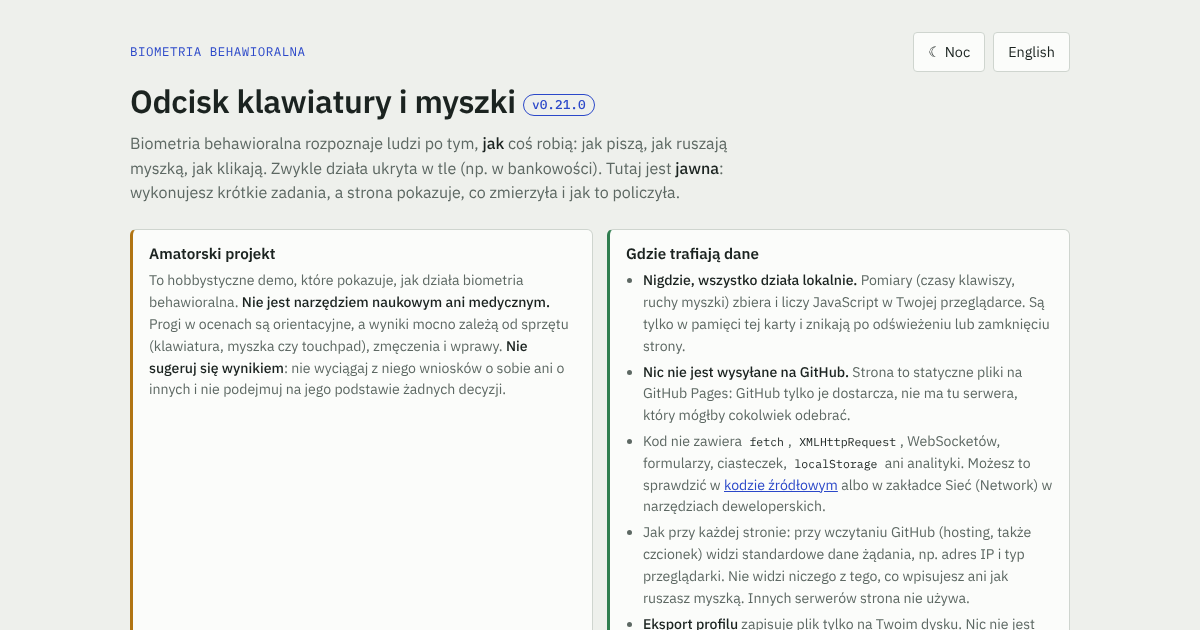
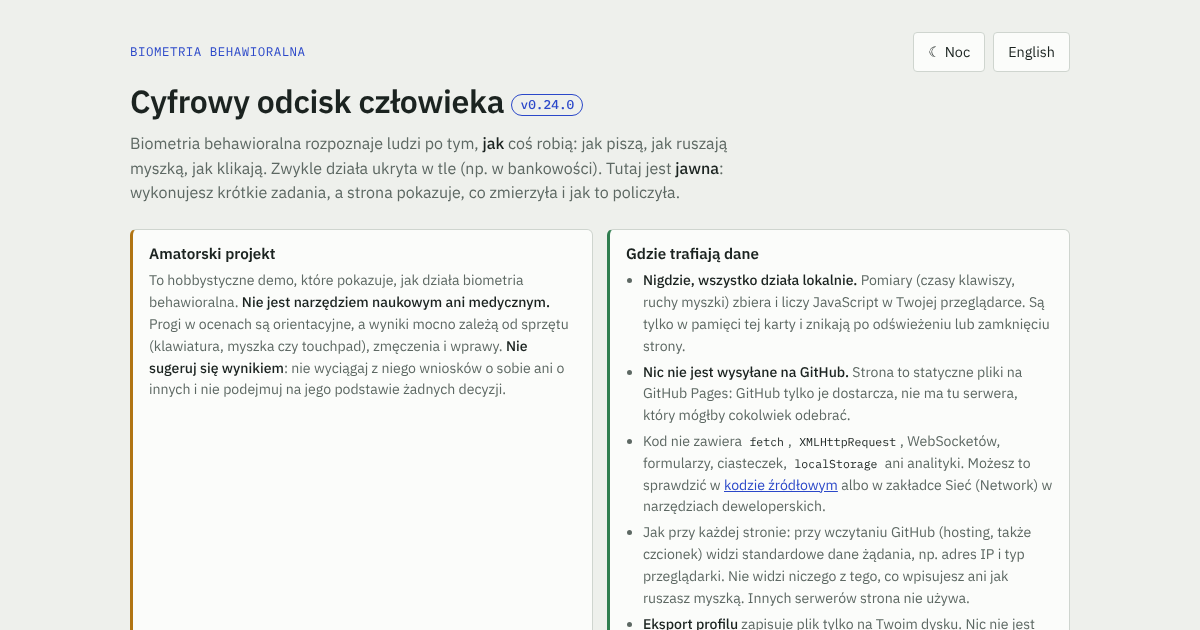
v0.24.0: nowa nazwa – Cyfrowy odcisk człowieka
Claude-Session: https://claude.ai/code/session_011wBEnhPQ2fQThnLDX3D2AP

Changed region(s): [[0.1233, 0.1508, 0.4933, 0.181]]

diff --git a/index.html b/index.html
@@ -3,7 +3,7 @@
 <head>
 <meta charset="utf-8">
 <meta name="viewport" content="width=device-width, initial-scale=1">
-<title>Odcisk klawiatury i myszki · biometria behawioralna – demo</title>
+<title>Cyfrowy odcisk człowieka · biometria behawioralna i testy w przeglądarce</title>
 <meta name="description" content="Jawne demo biometrii behawioralnej: sprawdź, jak strona rozpoznaje cię po pisaniu na klawiaturze i ruchach myszki. Test pisania, zadania z myszką, rytm hasła. Wszystko liczy się lokalnie w przeglądarce.">
 <meta name="author" content="Michał Stankiewicz">
 <meta name="keywords" content="biometria behawioralna, dynamika pisania, keystroke dynamics, behavioral biometrics, mouse dynamics, test pisania, typing test">
@@ -14,33 +14,33 @@
 <link rel="icon" href="assets/img/favicon-32.png" type="image/png" sizes="32x32">
 <link rel="apple-touch-icon" href="assets/img/apple-touch-icon.png">
 <meta property="og:type" content="website">
-<meta property="og:site_name" content="Odcisk klawiatury i myszki">
-<meta property="og:title" content="Odcisk klawiatury i myszki · biometria behawioralna – demo">
+<meta property="og:site_name" content="Cyfrowy odcisk człowieka">
+<meta property="og:title" content="Cyfrowy odcisk człowieka · biometria behawioralna i testy w przeglądarce">
 <meta property="og:description" content="Jawne demo biometrii behawioralnej: sprawdź, jak strona rozpoznaje cię po pisaniu na klawiaturze i ruchach myszki. Test pisania, zadania z myszką, rytm hasła. Wszystko liczy się lokalnie w przeglądarce.">
 <meta property="og:url" content="https://michalstankiewicz4-cell.github.io/behavioral-biometrics/">
 <meta property="og:image" content="https://michalstankiewicz4-cell.github.io/behavioral-biometrics/assets/img/og-image.png">
 <meta property="og:image:width" content="1200">
 <meta property="og:image:height" content="630">
-<meta property="og:image:alt" content="Zrzut ekranu strony Odcisk klawiatury i myszki">
+<meta property="og:image:alt" content="Zrzut ekranu strony Cyfrowy odcisk człowieka">
 <meta property="og:locale" content="pl_PL">
 <meta property="og:locale:alternate" content="en_US">
 <meta name="twitter:card" content="summary_large_image">
-<meta name="twitter:title" content="Odcisk klawiatury i myszki · biometria behawioralna – demo">
+<meta name="twitter:title" content="Cyfrowy odcisk człowieka · biometria behawioralna i testy w przeglądarce">
 <meta name="twitter:description" content="Jawne demo biometrii behawioralnej: sprawdź, jak strona rozpoznaje cię po pisaniu na klawiaturze i ruchach myszki. Test pisania, zadania z myszką, rytm hasła. Wszystko liczy się lokalnie w przeglądarce.">
 <meta name="twitter:image" content="https://michalstankiewicz4-cell.github.io/behavioral-biometrics/assets/img/og-image.png">
 <script type="application/ld+json">
 {
   "@context": "https://schema.org",
   "@type": "WebApplication",
-  "name": "Odcisk klawiatury i myszki",
-  "alternateName": "Keyboard and mouse fingerprint",
+  "name": "Cyfrowy odcisk człowieka",
+  "alternateName": "Human Digital Fingerprint",
   "url": "https://michalstankiewicz4-cell.github.io/behavioral-biometrics/",
   "description": "Jawne demo biometrii behawioralnej: sprawdź, jak strona rozpoznaje cię po pisaniu na klawiaturze i ruchach myszki. Test pisania, zadania z myszką, rytm hasła. Wszystko liczy się lokalnie w przeglądarce.",
   "applicationCategory": "EducationalApplication",
   "operatingSystem": "Any (web browser)",
   "inLanguage": ["pl", "en"],
   "isAccessibleForFree": true,
-  "softwareVersion": "0.23.0",
+  "softwareVersion": "0.24.0",
   "image": "https://michalstankiewicz4-cell.github.io/behavioral-biometrics/assets/img/og-image.png",
   "author": { "@type": "Person", "name": "Michał Stankiewicz", "url": "https://github.com/michalstankiewicz4-cell" },
   "codeRepository": "https://github.com/michalstankiewicz4-cell/behavioral-biometrics"
@@ -55,7 +55,7 @@
       <span class="tag" data-i18n="tag"></span>
       <div class="btns"><button id="theme" type="button"></button><button id="lang" type="button"></button></div>
     </div>
-    <h1><span data-i18n="title">Odcisk klawiatury i myszki</span> <button type="button" class="ver" id="ver" aria-describedby="news-h"></button></h1>
+    <h1><span data-i18n="title">Cyfrowy odcisk człowieka</span> <button type="button" class="ver" id="ver" aria-describedby="news-h"></button></h1>
     <p class="lead" data-i18n="lead">Biometria behawioralna rozpoznaje ludzi po tym, jak coś robią: jak piszą, jak ruszają myszką, jak klikają. Tutaj jest jawna: wykonujesz krótkie zadania, a strona pokazuje, co zmierzyła i jak to policzyła.</p>
     <noscript><p class="note">Ta strona wymaga JavaScriptu: wszystkie pomiary liczą się lokalnie w przeglądarce. · This page needs JavaScript: all measurements are computed locally in your browser.</p></noscript>
   </header>

diff --git a/js/changelog.js b/js/changelog.js
@@ -9,8 +9,11 @@ import { Stroop } from "./tests/stroop.js";
 import { Typing } from "./tests/typing.js";
 
 // ---------- wersja i lista zmian (najnowsza na górze; to samo w CHANGELOG.md) ----------
-const VERSION = "0.23.0";
+const VERSION = "0.24.0";
 const CHANGELOG = [
+  { v:"0.24.0", date:"2026-10-30",
+    pl:["Nowa nazwa strony: „Cyfrowy odcisk człowieka” (ang. „Human Digital Fingerprint”), bo strona obejmuje już nie tylko klawiaturę i myszkę."],
+    en:["New site name: “Human Digital Fingerprint” (Polish: „Cyfrowy odcisk człowieka”), since the site now covers more than the keyboard and mouse."] },
   { v:"0.23.0", date:"2026-10-30",
     pl:["Linki do polskiej i angielskiej Wikipedii pod nagłówkiem każdego testu, tam gdzie artykuł istnieje (np. efekt Stroopa, prawo Fittsa, tablica Snellena, dynamika pisania)."],
     en:["Links to Polish and English Wikipedia under each test's heading, where an article exists (e.g. Stroop effect, Fitts's law, Snellen chart, keystroke dynamics)."] },

diff --git a/js/i18n/pl.js b/js/i18n/pl.js
@@ -2,7 +2,7 @@
 import { REPO } from "../config.js";
 
 export default {
-  title:"Odcisk klawiatury i myszki", doc_title:"Odcisk klawiatury i myszki · biometria behawioralna – demo",
+  title:"Cyfrowy odcisk człowieka", doc_title:"Cyfrowy odcisk człowieka · biometria behawioralna i testy w przeglądarce",
   meta_desc:"Jawne demo biometrii behawioralnej: sprawdź, jak strona rozpoznaje cię po pisaniu na klawiaturze i ruchach myszki. Test pisania, zadania z myszką, rytm hasła. Wszystko liczy się lokalnie w przeglądarce.",
   tag:"BIOMETRIA BEHAWIORALNA",
   lang_btn:"English", lang_label:"Przełącz na angielski",

diff --git a/js/i18n/en.js b/js/i18n/en.js
@@ -2,7 +2,7 @@
 import { REPO } from "../config.js";
 
 export default {
-  title:"Keyboard and mouse fingerprint", doc_title:"Keyboard and mouse fingerprint · behavioral biometrics demo",
+  title:"Human Digital Fingerprint", doc_title:"Human Digital Fingerprint · behavioral biometrics and tests in your browser",
   meta_desc:"An open behavioral biometrics demo: see how a page can recognise you by your typing and mouse movements. Typing test, mouse tasks, password rhythm. Everything is computed locally in your browser.",
   tag:"BEHAVIORAL BIOMETRICS",
   lang_btn:"Polski", lang_label:"Switch to Polish",

diff --git a/PLAN.md b/PLAN.md
@@ -29,7 +29,7 @@ Zakładki są podzielone na grupy. Grupa z wynikami, które mogą być nieprawdz
 12. ☑ **Porównanie dwóch eksportów** w zakładce Wyniki (pliki JSON wczytywane lokalnie) (v0.21.0)
 13. ☑ **Karta wyniku jako obrazek PNG** generowana lokalnie (v0.21.0)
 14. ☑ **Linki do Wikipedii** (polskiej i angielskiej) przy testach, tam gdzie jest artykuł (v0.23.0)
-15. ☐ **Nowa nazwa strony** zamiast „Odcisk klawiatury i myszki” (do wyboru przez autora)
+15. ☑ **Nowa nazwa strony**: „Cyfrowy odcisk człowieka” (wcześniej „Odcisk klawiatury i myszki”) (v0.24.0)
 16. ☐ **Rozdzielenie wyników od interpretacji** w zakładce Wyniki oraz **interpretacje łączone** (wnioski z kilku testów naraz)
 17. ☐ **Frazy kluczowe i opis** dla wyszukiwarek po polsku i angielsku, dopasowane do wszystkich zakładek
 

diff --git a/docs/DOKUMENTACJA.md b/docs/DOKUMENTACJA.md
@@ -1,6 +1,6 @@
 # Dokumentacja techniczna
 
-Wersja dokumentu odpowiada wersji strony **0.23.0**. Historia zmian: [CHANGELOG.md](../CHANGELOG.md).
+Wersja dokumentu odpowiada wersji strony **0.24.0**. Historia zmian: [CHANGELOG.md](../CHANGELOG.md).
 
 ## 1. Założenia
 
@@ -230,8 +230,8 @@ Przycisk w zakładce „Wyniki”. W Chrome i Edge używa `showSaveFilePicker({ 
 
 ```json
 {
-  "app": "Odcisk klawiatury i myszki",
-  "version": "0.23.0",
+  "app": "Cyfrowy odcisk człowieka",
+  "version": "0.24.0",
   "source": "https://github.com/michalstankiewicz4-cell/behavioral-biometrics",
   "exported": "2026-10-30T20:40:00.000Z",
   "language": "pl",

diff --git a/CHANGELOG.md b/CHANGELOG.md
@@ -3,6 +3,9 @@
 Format: [Keep a Changelog](https://keepachangelog.com/pl/1.1.0/), numeracja: [SemVer](https://semver.org/lang/pl/).
 Ta sama lista jest na stronie w dziale „Co nowego” (stała `CHANGELOG` w `js/changelog.js`).
 
+## [0.24.0] – 2026-10-30
+- Nowa nazwa strony: „Cyfrowy odcisk człowieka” (ang. „Human Digital Fingerprint”), bo strona obejmuje już nie tylko klawiaturę i myszkę.
+
 ## [0.23.0] – 2026-10-30
 - Linki do polskiej i angielskiej Wikipedii pod nagłówkiem każdego testu, tam gdzie artykuł istnieje (np. efekt Stroopa, prawo Fittsa, tablica Snellena, dynamika pisania).
 

diff --git a/README.md b/README.md
@@ -1,6 +1,6 @@
-# Odcisk klawiatury i myszki · Keyboard and mouse fingerprint
+# Cyfrowy odcisk człowieka · Human Digital Fingerprint
 
-**Wersja / version: 0.23.0** · [Co nowego / changelog](CHANGELOG.md) · [Plan](PLAN.md) · [Dokumentacja / docs](docs/DOKUMENTACJA.md)
+**Wersja / version: 0.24.0** · [Co nowego / changelog](CHANGELOG.md) · [Plan](PLAN.md) · [Dokumentacja / docs](docs/DOKUMENTACJA.md)
 
 ▶ **https://michalstankiewicz4-cell.github.io/behavioral-biometrics/**
 
